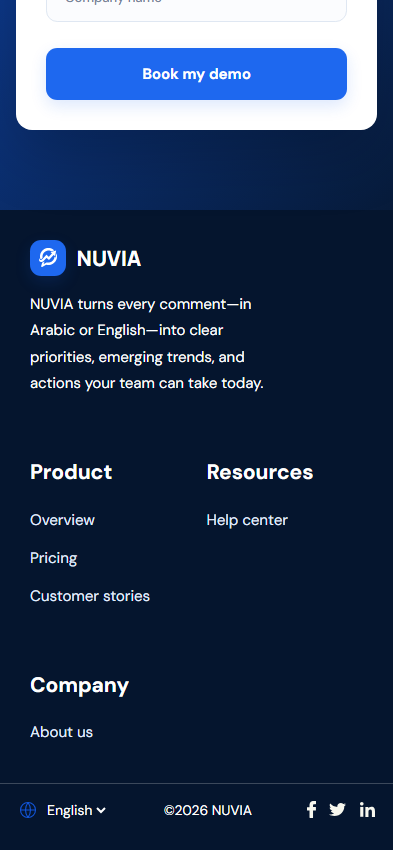
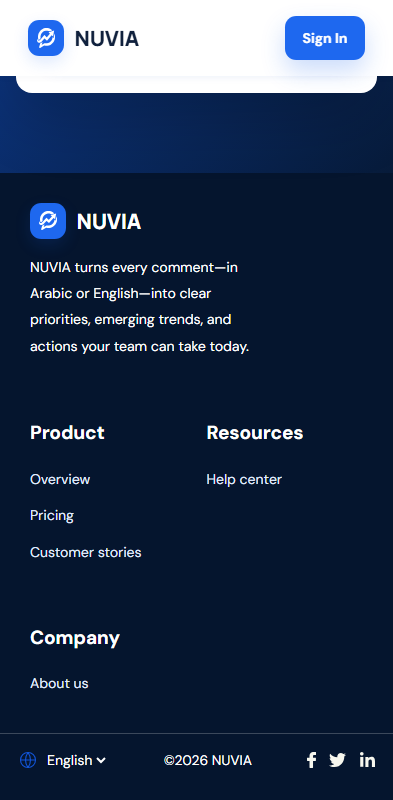
Refresh all frontend screenshots from the final responsive UI

diff --git a/docs/ui/frontend/README.md b/docs/ui/frontend/README.md
@@ -1,0 +1,40 @@
+# Frontend screenshots
+
+These are real browser captures of the current React source, in English and Arabic. They are review evidence, not generated UI mockups. Desktop captures use 1440 × 960; phone captures use 393 × 800. Full-page images may be taller than the viewport.
+
+## Regenerate the complete set
+
+From the repository root:
+
+```sh
+npm ci
+npx playwright install chromium
+npm run screenshots
+```
+
+The script serves `src/frontend/` on local port 5191, waits for bundled fonts, images, and dashboard sizing, and captures every route in both languages. It validates the compact phone sign-in link, arrow-only mobile account/setup headers, exact blue SVG language icon, bottom help placement, absence of horizontal overflow, and signup fit. It also fails if an existing PNG was not refreshed, so older aliases cannot silently remain stale. It does not alter application code or the separate color preview.
+
+Set `SCREENSHOT_PORT` if the default port is occupied. `PLAYWRIGHT_CHROMIUM_EXECUTABLE` optionally selects an existing Chromium executable; otherwise Playwright uses its installed Chromium. Reduced motion and disabled screenshot animations make captures stable.
+
+## File map
+
+Replace `{lang}` with `en` or `ar`.
+
+| Screen               | Desktop                           | Phone                                    |
+| -------------------- | --------------------------------- | ---------------------------------------- |
+| Landing, full page   | `{lang}-landing.png`              | `{lang}-mobile.png`                      |
+| Login                | `{lang}-login.png`                | `{lang}-mobile-login.png`                |
+| Create account       | `{lang}-signup.png`               | `{lang}-mobile-signup.png`               |
+| Forgot password      | `{lang}-forgot.png`               | `{lang}-mobile-forgot.png`               |
+| Reset password       | `{lang}-reset.png`                | `{lang}-mobile-reset.png`                |
+| Business information | `{lang}-business-information.png` | `{lang}-mobile-business-information.png` |
+| Business setup       | `{lang}-business-setup.png`       | `{lang}-mobile-business-setup.png`       |
+| Get started          | `{lang}-get-started.png`          | `{lang}-mobile-get-started.png`          |
+
+The existing detail filenames are preserved and recaptured from the same run:
+
+- `active-ar-mobile-hero.png`: Arabic landing at the top of the phone viewport.
+- `active-ar-mobile-footer.png`: Arabic landing scrolled to the footer.
+- `active-en-mobile-footer.png`: English landing scrolled to the footer.
+
+All 35 PNGs are refreshed together. The original 17 filenames remain valid; unchanged desktop views may produce identical files. The additional 18 captures complete the route/language/viewport matrix. Business screens show the initial empty prototype state and do not imply saved workspace data.

diff --git a/docs/frontend.md b/docs/frontend.md
@@ -82,7 +82,7 @@ The desktop landing caps typography and hero scaling on wide screens and reduces
 
 ## UI review screenshots
 
-English and Arabic screenshots are committed under `docs/ui/frontend/` for reviewer comparison. They contain only synthetic prototype content. No backend, authentication, or AI capability should be inferred from a screenshot.
+English and Arabic screenshots are committed under `docs/ui/frontend/` for reviewer comparison. Run `npx playwright install chromium` once, then `npm run screenshots` to regenerate the entire set, including existing detail-image filenames. See [the screenshot file map](ui/frontend/README.md). They contain only synthetic prototype content. No backend, authentication, or AI capability should be inferred from a screenshot.
 
 ## Mobile refinements
 
